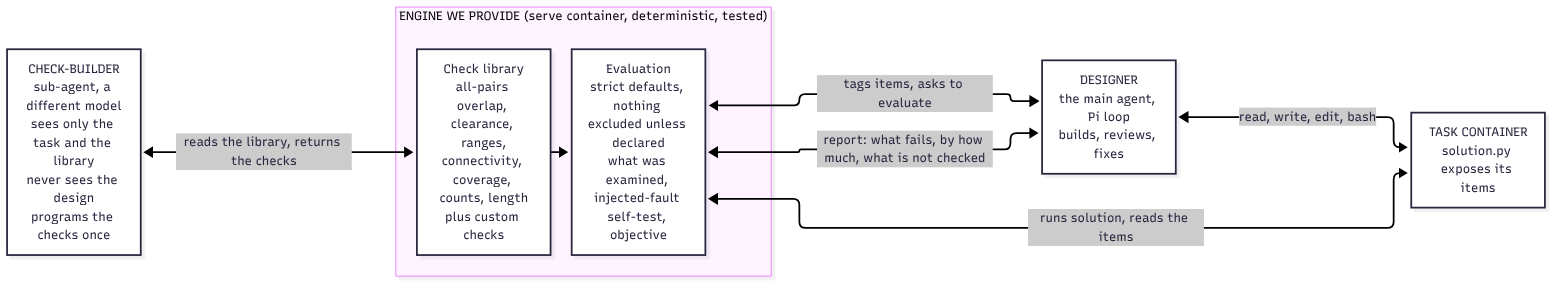
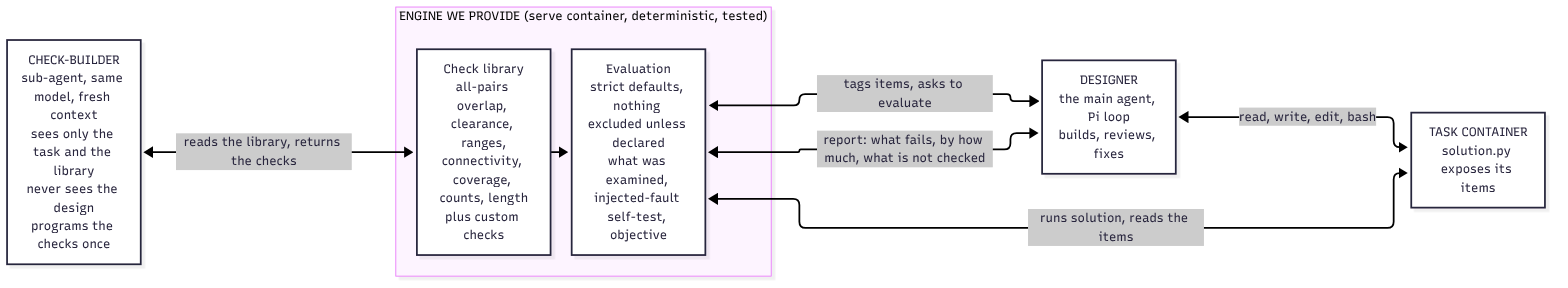
Rung 3: the check-builder runs on the declared model with a fresh context (a different model cannot be forced)
Claude-Session: https://claude.ai/code/session_01VAXg1Rv3qVZL8ddUfUoGP9

Changed region(s): [[0.0, 0.125, 0.0938, 0.9375]]

diff --git a/docs/architecture-rung3.md b/docs/architecture-rung3.md
@@ -19,7 +19,7 @@ The agent reads well, lists the requirements, and fixes what its checks report (
 - **Objective tracker:** route length by group and total, and the change against the previous and the best evaluation.
 - **Robustness is a requirement of its own:** unit tests for touching against overlapping (the 2 mm tolerance edge), identical boxes, empty groups, thousands of items; fast pair search; explicit units; no hidden state between evaluations.
 
-**2. The check-builder (a sub-agent on a different model).** Before the design exists, the harness calls the model once, with fresh context: the task text, the library's catalogue and the configuration schema, and nothing else. It returns a configuration: for each requirement it finds, which library check, over which roles ("any solid", "route segments", "sprinkler heads"), with which numbers. It never sees the design, the drawings' content or the designer's notes. The hypothesis it tests: the exclusion of same-service pieces came from the designer's context (it knows its segments overlap at joints), not from the model's reading of the rule, so a check-builder without that context will not write it. If the check-builder writes it anyway, the belief is the model's own and the engine's strict default and fault self-test are what remain.
+**2. The check-builder (a sub-agent: the same model, a fresh context).** Before the design exists, the harness calls the model once, with fresh context: the task text, the library's catalogue and the configuration schema, and nothing else. It returns a configuration: for each requirement it finds, which library check, over which roles ("any solid", "route segments", "sprinkler heads"), with which numbers. It never sees the design, the drawings' content or the designer's notes. The hypothesis it tests: the exclusion of same-service pieces came from the designer's context (it knows its segments overlap at joints), not from the model's reading of the rule, so a check-builder without that context will not write it. If the check-builder writes it anyway, the belief is the model's own and the engine's strict default and fault self-test are what remain.
 
 **3. The designer (the main agent).** It reads the drawings, builds the solution, exposes its items, **binds** the check-builder's roles to its item kinds, evaluates, and then **reviews**: it reads the check-builder's configuration and the report, and may amend (add, tighten, or narrow a check). Every amendment, and above all every narrowing, is recorded by the engine and printed in the report and in the final evidence. The designer is not stopped from narrowing a check; it cannot do so unseen.
 
@@ -60,14 +60,14 @@ Rung 3 v1 (checker + engine + review) against rung 2 v3 (same task, Neon, ifcope
 3. **The checks are fixed after the check-builder sets them up.** The designer reviews the checks and the report and may record a concern; the concern is shown in the evidence block; it does not change the checks. (This replaces the amend-and-log idea: simpler; the cost is that a wrong check cannot be repaired inside a run, which we will see in the reports.)
 4. **Library plus custom checks:** a library-only design is too restrictive.
 5. **Budget: 40 calls for the designer** (as in rung 2) rather than 60; the check-builder's calls are counted and reported separately (expected 1 to 3).
-6. **Sub-agents always run on a different model from the designer.** Open point below.
+6. **Sub-agents run on the declared model with a fresh context.** The first idea, a different model, is dropped (user, after the rules text: it cannot be forced, and a submitted entry may only call its declared model).
 
 ## Settled: a second model, and the competition's rules (organizers' `docs/rules.md` and `docs/models.md`, read 2026-11-27)
 
 - `rules.md`: "The `model_api` in `submission.yaml` must match the model your harness actually calls."
 - `models.md`: "Call only the model you declared. In evaluation, the key works for that model..." and `kit/README.md`: in evaluation a `google-cloud` entry's key "works only for its declared model", while the local proxy serves all eleven.
 - **So a sub-agent on a different model cannot be part of a submitted entry** (the call would be refused and the entry would break the rule). It can be used in **local research runs**, where our proxy serves every model.
-- **Consequence for the design:** the check-builder takes its model as a setting. The submittable harness uses the declared model with a **fresh context** (the independence comes from the context, not the model). A different model is a research ablation: it tells us whether independence of model adds anything beyond independence of context. The user's principle, sub-agents on a different model, is kept for those research runs.
+- **Consequence for the design (decided):** the check-builder uses the declared model with a **fresh context**; the independence comes from the context, not from the model. The model stays a setting in the code, so a different-model ablation remains one line, but it is not part of the plan.
 
 ## Engine validated against the grader (2026-11-27)
 

diff --git a/docs/figures.md b/docs/figures.md
@@ -33,7 +33,7 @@ finish, stops the agent, and sends an honest note as the final message. Either w
 
 ![The structured workflow](figures/fig4-structured-workflow.png)
 
-A check-builder (a sub-agent on a different model that sees only the task) programs the checks once, from a prepopulated library, before the design exists. The designer builds, binds the check-builder's roles to its own item kinds, evaluates, and reviews; the checks stay as built. The engine's report is made of facts it computed: failures, what was examined, which kinds no check touches, which checks missed an injected fault. The designer's concerns are recorded and shown with the engine's evidence.
+A check-builder (a sub-agent with a fresh context that sees only the task) programs the checks once, from a prepopulated library, before the design exists. The designer builds, binds the check-builder's roles to its own item kinds, evaluates, and reviews; the checks stay as built. The engine's report is made of facts it computed: failures, what was examined, which kinds no check touches, which checks missed an injected fault. The designer's concerns are recorded and shown with the engine's evidence.
 
 ## Figure 5. The parts of the structured workflow (proposed)
 

diff --git a/docs/design-decisions.md b/docs/design-decisions.md
@@ -794,3 +794,9 @@ setting is one line.
   A sub-agent on a different model is therefore **research only**; the submittable harness uses the declared model with a fresh context. The check-builder's model is a setting.
 - **Tool bug found and fixed:** vertex data was read from a freed temporary (garbage values such as 6e284); the earlier cross-run geometry comparison was affected and was not used for any conclusion.
 - **Open:** Mode A (plan, `model_items()`) or Mode B (the harness runs the script with the real library and reads the IFC; the agent only sees the report).
+
+### Sub-agent model, settled (2026-11-27, user)
+
+A different model for the sub-agent cannot be forced (and a submitted entry may only call its declared model), so **the check-builder runs on the declared model with a fresh context**. The independence
+the design relies on is independence of context: it never sees the design, the notes or the drawings. Whether the model's own prior about joints survives that is what the experiment shows. A
+different-model ablation stays possible (the model is a setting) but is not planned.
